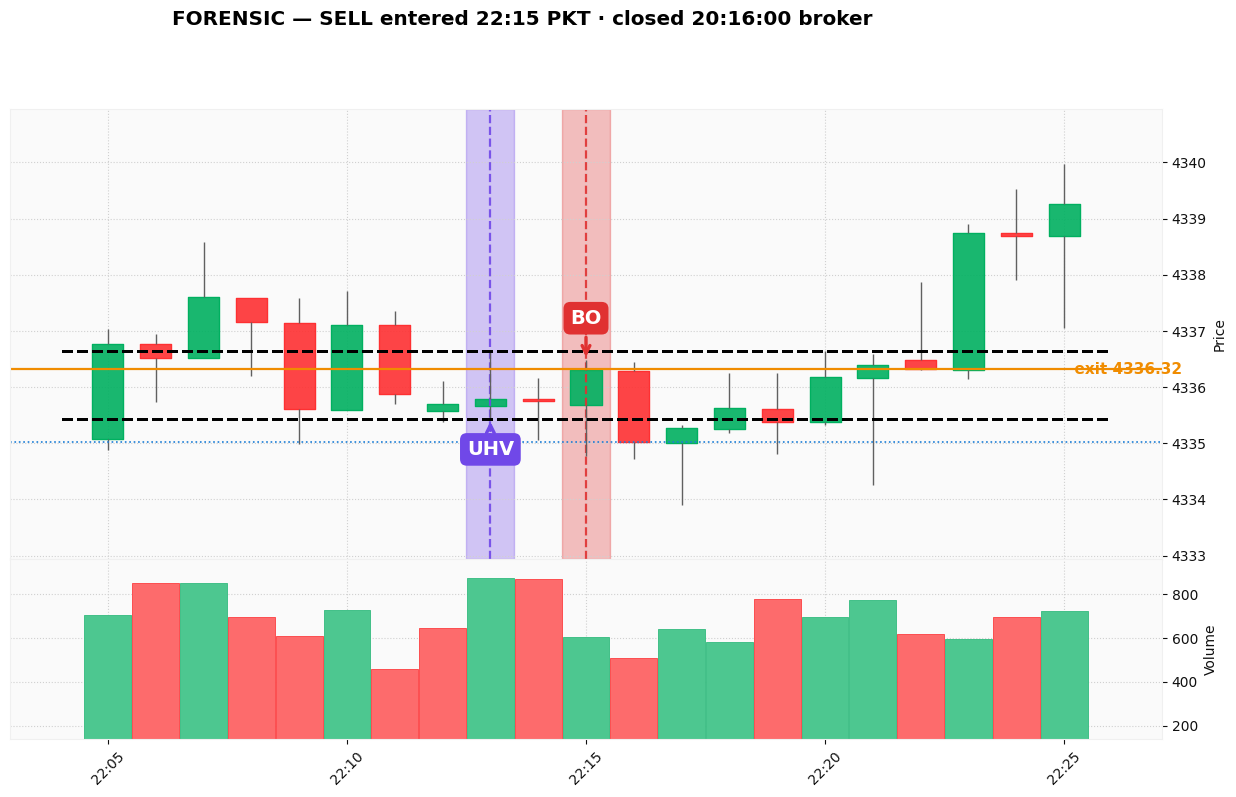
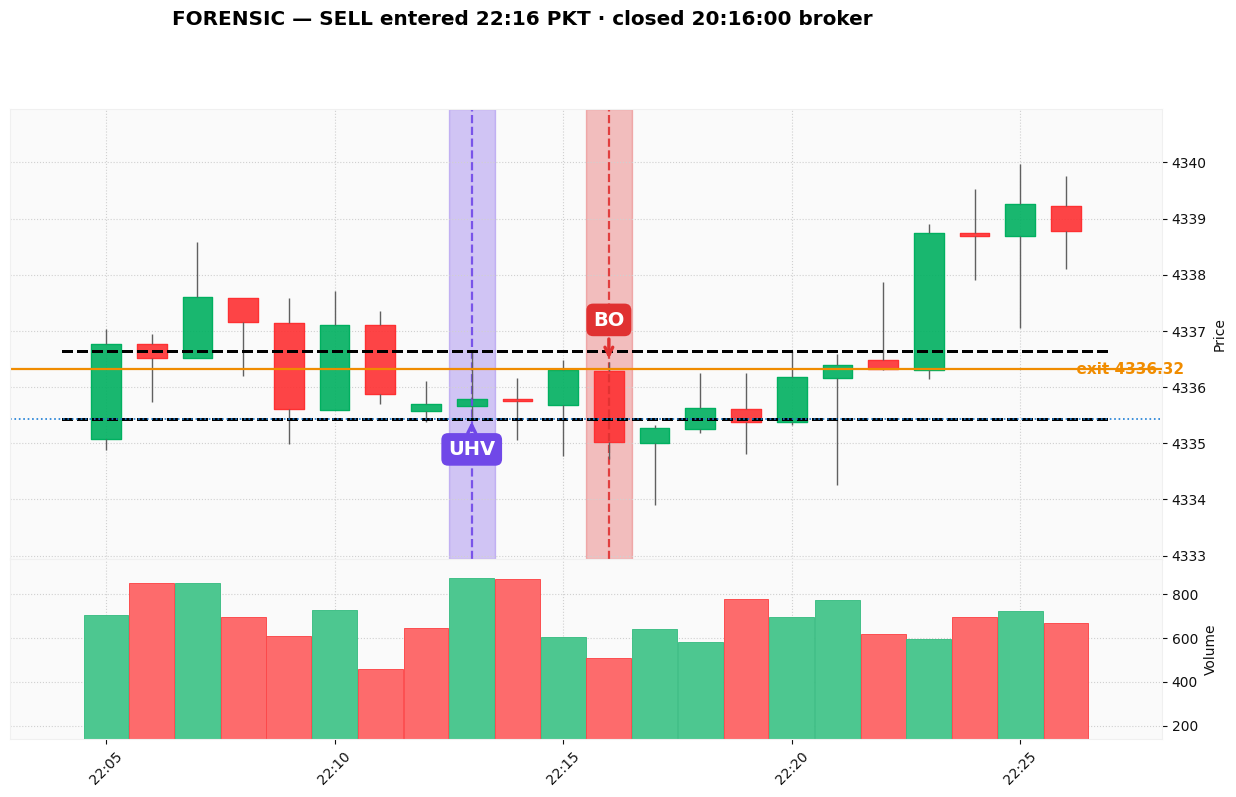
FORENSIC ATTRIBUTION FIXED (Zee: 'UHV and BO are both green, this is impossible' — he was right, the chart was lying): for signal-path trades the tool guessed the breakout candle from the FIRE MINUTE, but the matcher emits after a candle closes and the EA fires seconds later, so it kept labelling th
Also: camel humps smoothed (Zee: 'a bit jittery') — 22 spline points per segment plus a centred 9-point moving average, so the curve flows without leaving the swings.

diff --git a/monitor/forensic_chart.py b/monitor/forensic_chart.py
@@ -202,6 +202,41 @@ def resolve_trade(broker_ts, side):
                     if abs(abs(x[4] - para) - 3.0) < 0.35:
                         lamp = x[4]
                         break
+    # GROUND TRUTH FIRST (2026-08-07, Zee: "UHV and BO are both green, impossible"):
+    # a signal-path fire prints its id, and the matcher logged exactly what it emitted
+    # (side, entry price, setup time) in monitor/oanda_signals.jsonl. Identify the
+    # breakout candle by that ENTRY PRICE — timestamps can disagree between the live
+    # feed and the archive, prices cannot.
+    sig_id = re.search(r"signal #(\d+)", best[1])
+    if sig_id:
+        try:
+            import json as _j
+            led = Path(__file__).parent / "oanda_signals.jsonl"
+            rec = None
+            for ln in led.read_text(encoding="utf-8").splitlines():
+                d = _j.loads(ln)
+                if str(d.get("id")) == sig_id.group(1):
+                    rec = d
+            if rec:
+                want = float(rec["entry"])
+                # the live feed revises a closed bar by a few cents, so match on the
+                # NEAREST close rather than an exact one (0.50 sanity cap)
+                cands = [x for x in load()
+                         if abs((x[0] - entry_utc).total_seconds()) <= 420]
+                bo = min(cands, key=lambda x: abs(x[4] - want)) if cands else None
+                if bo is not None and abs(bo[4] - want) <= 0.50:
+                    entry_utc = bo[0]
+                    import oanda_live_matcher as _M2, build_entry_review_m5 as _B2
+                    for k3, v3 in _M2.CFG.items():
+                        setattr(_B2, k3, v3)
+                    bb2 = [_B2.Bar(x[0], x[1], x[2], x[3], x[4], int(x[5])) for x in load()]
+                    for st2 in _B2.detect_full(bb2):
+                        if st2["side"] == side and st2["open_t"] == bo[0]:
+                            uhv_utc = st2["uhv_t"]
+                            lamp = (bb2[st2["u"]].h if side == "BUY" else bb2[st2["u"]].l)
+                            break
+        except Exception:
+            pass
     if uhv_utc is None:
         # signal-path fire (no lamp in the line): ask the detector which UHV that
         # breakout candle belonged to.

diff --git a/monitor/trend_eyes.py b/monitor/trend_eyes.py
@@ -310,6 +310,17 @@ def draw(bars, back=120, out=None):
                            + (-p0 + 3 * p1 - 3 * p2 + p3) * t * t * t)
                 _curve.append((t0 + _td(seconds=span * t), y))
         _curve.append(_pts[-1])
+        # SMOOTHER (Zee 2026-08-07: "the curves are a bit jittery"): a centred moving
+        # average over the spline points irons out the staircase left by closely
+        # spaced pivots, without moving the humps themselves off the swings.
+        if len(_curve) > 9:
+            _w = 9
+            _ys2 = [q[1] for q in _curve]
+            _sm = []
+            for _i in range(len(_ys2)):
+                a0 = max(0, _i - _w // 2); b0 = min(len(_ys2), _i + _w // 2 + 1)
+                _sm.append(sum(_ys2[a0:b0]) / (b0 - a0))
+            _curve = [(_curve[_i][0], _sm[_i]) for _i in range(len(_curve))]
         _hcol = {"UPTREND": "#2f9e44", "DOWNTREND": "#e03131"}.get(
             auto_call(bars)["trend"], "#868e96")
         lines.append(_curve); colors.append(_hcol); widths.append(4.5)
